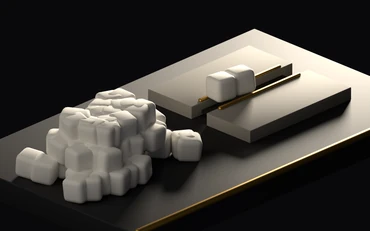
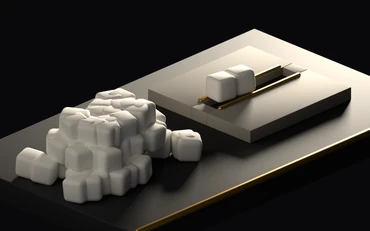
fix(whynow): le panneau 2 sert une plaque CONTINUE, et son alt cesse de mentir
L'ASSET. Les quatre paliers de whynow-outils viennent du maitre courant
rendu-3d/rendus/outils.png, reproduits A L'OCTET par verifier_assets_servis.py :
26 / 26 paliers conformes octet, 0 perime, CODE DE SORTIE REEL 0. La chaine
CODE -> PNG -> WebP -> page servie est verte de bout en bout, et l'export a ete fait
APRES le dernier rendu — l'ordre d'ecriture est un invariant (regle 26).

PSNR des quatre paliers remplaces, ancien asset servi contre nouveau :
    370   33,15 dB      590   33,23 dB      740   33,24 dB      1180   33,26 dB
Les quatre sont SOUS les 35 dB, et c'est le signe ATTENDU : 35 dB est le seuil qui
separe « re-rendu du meme code, ecart visible nul » de « le CONTENU a change ». Le
contenu a change — deux boites ont ete ajoutees a la scene. Un PSNR au-dessus de 35
aurait voulu dire que la geometrie n'avait pas bouge.

CE QUE LA GEOMETRIE CORRIGE. Ce que sept endroits du depot appelaient « une plaque
fendue » etait DEUX BOITES PLEINES dont le jour descendait jusqu'au socle : balayage
de 200 tranches en x, 0 portait de la matiere d'un bord du jour a l'autre. Deux
boites de bout ferment desormais la rainure ; le balayage passe a 40 / 200 au niveau
du dessus de la plaque. Non-regression mesuree : objets porteurs de niveau 36 -> 37.

LES DEUX ANCRES DE CE FICHIER SONT INCHANGEES AU CHIFFRE PRES, et c'est la condition
qui rendait le geste possible : panel2LabelOutils (0,2866 ; 0,3507) et
[…]

Changed region(s): [[0.5054, 0.4242, 0.5946, 0.5455], [0.773, 0.2727, 0.8324, 0.3333]]

diff --git a/components/WhyNow.tsx b/components/WhyNow.tsx
@@ -197,6 +197,31 @@ const SEUIL_COTE_A_COTE = 1145;
  * fendue — pour retomber sur du fond de page. C'est le plus PETIT decalage qui
  * donne du fond de page dans les deux cas : l'etiquette est aussi pres de son
  * objet que la lumiere le permet.
+ *
+ * ── LE `alt` DU PANNEAU 2 A DECRIT PENDANT DIX PORTES UNE GEOMETRIE INEXISTANTE ─
+ *
+ * Il disait « une plaque fendue d'une longue rainure bordee d'or ; deux blocs
+ * reposent en travers de la fente SANS Y ENTRER ». `rendu-3d/scene_outils.py`
+ * construisait DEUX BOITES PLEINES posees a 0,145 l'une de l'autre, dont le jour
+ * descendait jusqu'au socle : balayage de 200 tranches en x, **0** portait de la
+ * matiere d'un bord du jour a l'autre. Il n'y avait pas de plaque a fendre.
+ *
+ * ET CE `alt` NE VIT PAS DANS CE FICHIER, ce qui est la raison pour laquelle il a
+ * survecu aux relectures de ce fichier : il est en `messages/fr.json` et
+ * `messages/en.json`, clef `whyNow.panel2Alt`, et n'arrive ici que par
+ * `panneaux[i].alt`. Chercher « fendue » dans `WhyNow.tsx` ne le trouvait pas.
+ *
+ * DEUX CORRECTIONS, ET LA SECONDE N'EST PAS UNE CORRECTION DE GEOMETRIE :
+ *   1. la scene rend desormais la plaque CONTINUE (`plaque_bout_0` /
+ *      `plaque_bout_1` ferment le jour aux deux bouts ; 40 tranches sur 200
+ *      portent de la matiere au niveau du dessus). « Plaque » est devenu vrai.
+ *   2. « SANS Y ENTRER » est retire. Ce n'est pas une description, c'est une these,
+ *      et elle vaut **1,6 px** de porte-a-faux a 335 px : elle a ete vue par
+ *      **0 lecteur sur 12** au test a l'aveugle. Le `alt` dit maintenant ce que la
+ *      geometrie porte — les blocs sont « plus larges qu'elle », 0,17 contre
+ *      0,145 — et laisse la these au TEXTE de la page, qui est ce qui la porte.
+ * Le mot « fendue » plus haut dans ce commentaire, lui, decrit desormais la
+ * geometrie reelle et reste donc en place.
  */
 const ETIQUETTES_LATERALES = [
   [
